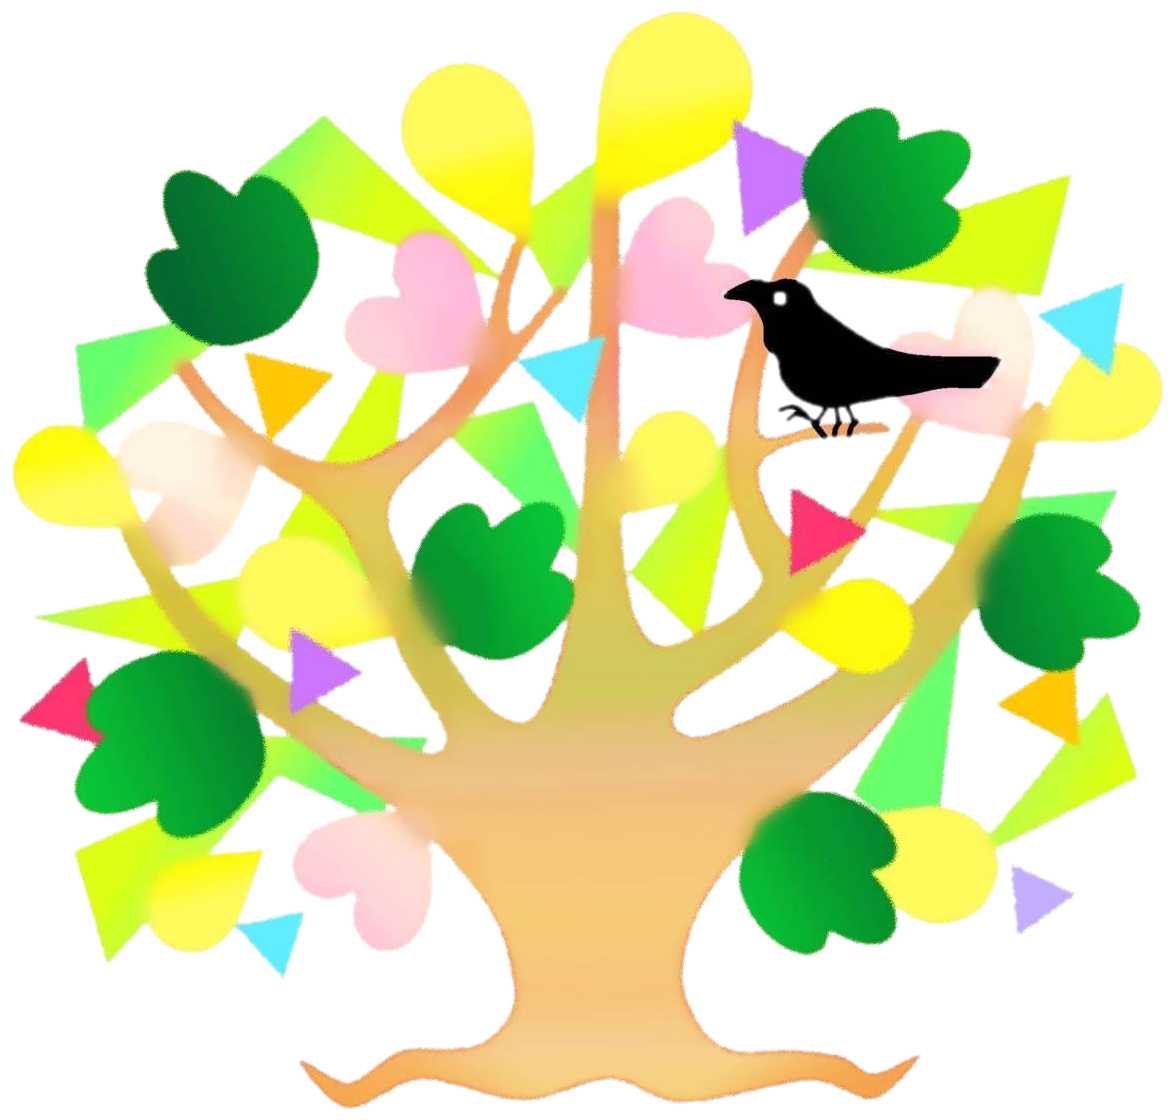
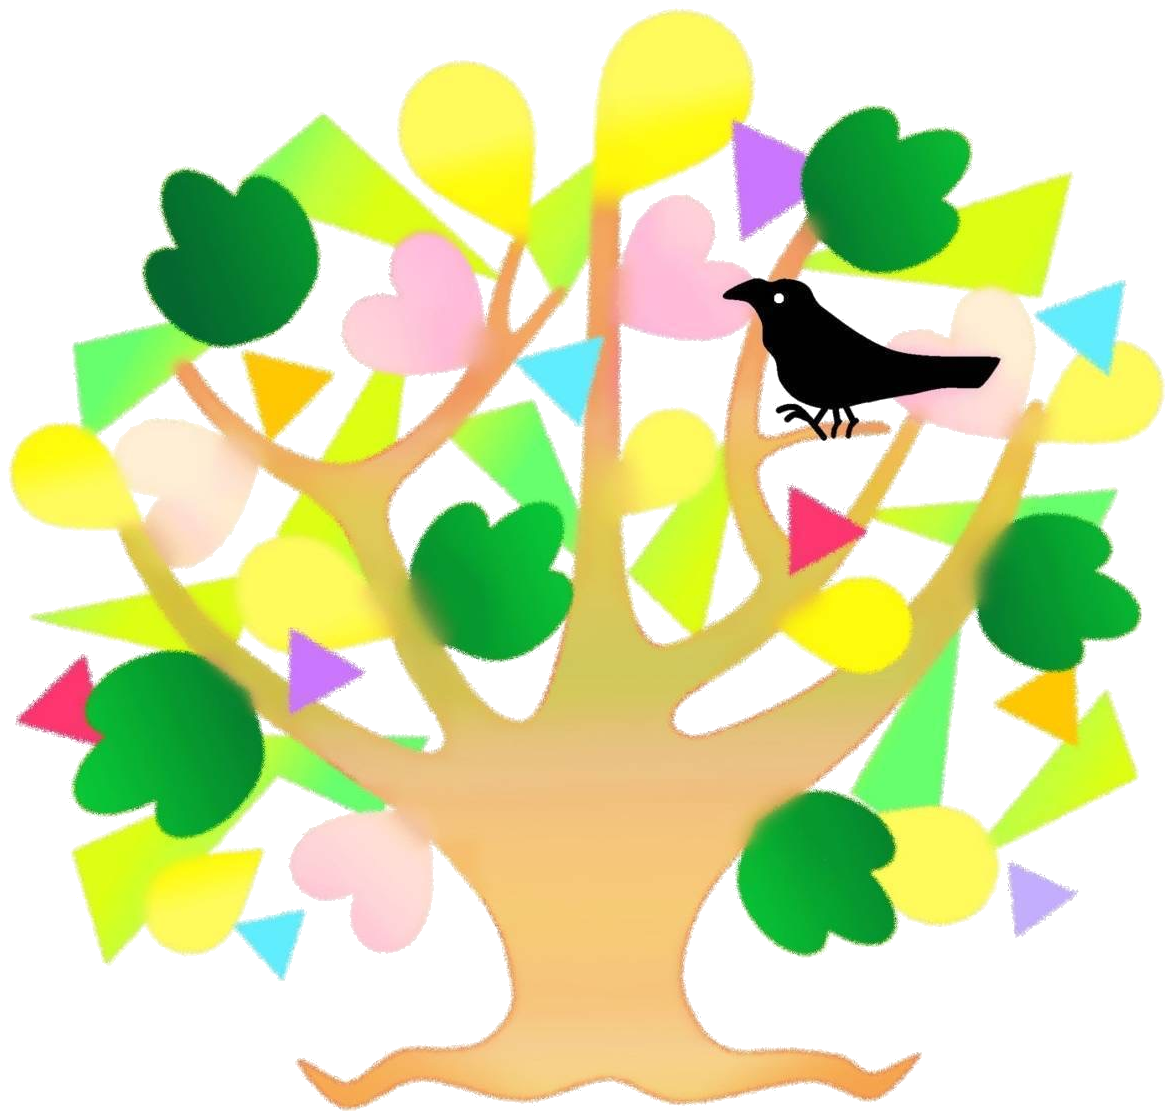
サポーターさん特典追加・最新の状態を保存

diff --git a/indexのコピー.html b/indexのコピー.html
@@ -288,7 +288,7 @@
       flex-direction: column;
       align-items: center;
       justify-content: center;
-      padding: 40px 36px;
+      padding: 40px 32px;
       text-align: center;
     }
 
@@ -302,9 +302,9 @@
     }
 
     .philosophy-card p {
-      font-size: 1.1rem;
+      font-size: 1.53rem;
       color: #333;
-      line-height: 2.2;
+      line-height: 1.8;
       font-weight: 700;
     }
 
@@ -645,7 +645,7 @@
     }
 
     /* ===========================
-       サポーターさん募集
+       サポーター募集
     =========================== */
     .supporter-message {
       max-width: 700px;
@@ -702,36 +702,6 @@
     .supporter-card .s-note {
       font-size: 0.72rem;
       color: #999;
-    }
-
-    .supporter-card .s-benefits {
-      text-align: left;
-      margin-top: 14px;
-      padding-top: 14px;
-      border-top: 1px solid #e8e4d8;
-      font-size: 0.76rem;
-      color: #555;
-      line-height: 1.8;
-    }
-
-    .supporter-card .s-benefits-title {
-      font-size: 0.78rem;
-      font-weight: 700;
-      color: #3a6528;
-      margin-bottom: 4px;
-    }
-
-    .supporter-card .s-benefits li {
-      list-style: none;
-      padding-left: 1em;
-      position: relative;
-    }
-
-    .supporter-card .s-benefits li::before {
-      content: "・";
-      position: absolute;
-      left: 0;
-      color: #4a9d6e;
     }
 
     /* ===========================
@@ -979,7 +949,7 @@
           <li><a href="#activity">活動のようす</a></li>
           <li><a href="#guide">利用案内</a></li>
           <li><a href="#staff">スタッフ紹介</a></li>
-          <li><a href="#supporter">サポーターさん募集</a></li>
+          <li><a href="#supporter">サポーター募集</a></li>
           <li><a href="#faq">よくある質問</a></li>
         </ul>
       </nav>
@@ -1154,13 +1124,13 @@
       <h2 class="sec-title">遊ぶ楽校やたの理念</h2>
       <div class="philosophy-cards">
         <div class="philosophy-card">
-          <p>子ども一人ひとりの<br>ありのままの存在、<br>個性を<br>光輝かせる</p>
+          <p>子ども一人ひとりの<br>ありのままの存在、<br>個性を光輝かせる</p>
         </div>
         <div class="philosophy-card">
-          <p>子ども自身が<br>本来持っている力を<br>最大限に生かせるよう<br>サポートし、環境を創る</p>
+          <p>子ども自身が本来持っている<br>力を最大限に生かせるよう<br>サポートし、環境を創る</p>
         </div>
         <div class="philosophy-card">
-          <p>親御さんと<br>想いや情報を交換し、<br>共に学び、<br>共に歩む</p>
+          <p>親御さんと想いや情報を<br>交換し、<br>共に学び、共に歩む</p>
         </div>
       </div>
     </div>
@@ -1328,7 +1298,7 @@
     </div>
   </section>
 
-  <!-- ========== サポーターさん募集 ========== -->
+  <!-- ========== サポーター募集 ========== -->
   <section id="supporter" class="sec bg-cream">
     <div class="sec-inner">
       <span class="sec-label">SUPPORTER</span>
@@ -1353,39 +1323,19 @@
       </div>
       <div class="supporter-grid">
         <div class="supporter-card">
-          <h3>個人サポーターさん</h3>
-          <p class="s-price">1口 1,000円/月</p>
+          <h3>個人サポーター</h3>
+          <p class="s-price">1,000円/月</p>
           <p class="s-note">年額 12,000円</p>
-          <div class="s-benefits">
-            <p class="s-benefits-title">特典</p>
-            <ul>
-              <li>やた食堂ご招待<br>1口：年1回<br>2口以上：年2回またはお二人様</li>
-              <li>子どもたちの手づくり作品プレゼント（年1回）</li>
-              <li>HPにお名前掲載（希望者）</li>
-            </ul>
-          </div>
         </div>
         <div class="supporter-card">
-          <h3>企業サポーターさん</h3>
-          <p class="s-price">1口 10,000円/月</p>
+          <h3>企業サポーター</h3>
+          <p class="s-price">10,000円/月</p>
           <p class="s-note">年額 120,000円</p>
-          <div class="s-benefits">
-            <p class="s-benefits-title">特典</p>
-            <ul>
-              <li>やた食堂ご招待<br>1口：年1回<br>2口以上：年2回またはお2人様</li>
-              <li>子どもたちの手づくり作品プレゼント（年1回）</li>
-              <li>HPにお名前掲載（希望者）</li>
-              <li>やた食堂開催時、お名前掲載</li>
-            </ul>
-          </div>
         </div>
         <div class="supporter-card">
-          <h3>単発サポーターさん</h3>
+          <h3>単発サポーター</h3>
           <p class="s-price">金額自由</p>
           <p class="s-note">都合のよいタイミングで</p>
-          <div class="s-benefits">
-            <p>ご都合のよいタイミングで金額を問わずご支援いただける形です。お気持ちのままにご参加ください。</p>
-          </div>
         </div>
       </div>
     </div>
@@ -1481,7 +1431,7 @@
       <a href="#about">やたについて</a>
       <a href="#activity">活動のようす</a>
       <a href="#guide">利用案内</a>
-      <a href="#supporter">サポーターさん募集</a>
+      <a href="#supporter">サポーター募集</a>
       <a href="#contact">お問い合わせ</a>
     </div>
     <p>&copy; 一般社団法人 遊ぶ楽校やた</p>

diff --git a/遊ぶ楽校やた_v2.html b/遊ぶ楽校やた_v2.html
@@ -288,7 +288,7 @@
       flex-direction: column;
       align-items: center;
       justify-content: center;
-      padding: 40px 36px;
+      padding: 40px 32px;
       text-align: center;
     }
 
@@ -302,9 +302,9 @@
     }
 
     .philosophy-card p {
-      font-size: 1.1rem;
+      font-size: 1.53rem;
       color: #333;
-      line-height: 2.2;
+      line-height: 1.8;
       font-weight: 700;
     }
 
@@ -645,7 +645,7 @@
     }
 
     /* ===========================
-       サポーターさん募集
+       サポーター募集
     =========================== */
     .supporter-message {
       max-width: 700px;
@@ -702,36 +702,6 @@
     .supporter-card .s-note {
       font-size: 0.72rem;
       color: #999;
-    }
-
-    .supporter-card .s-benefits {
-      text-align: left;
-      margin-top: 14px;
-      padding-top: 14px;
-      border-top: 1px solid #e8e4d8;
-      font-size: 0.76rem;
-      color: #555;
-      line-height: 1.8;
-    }
-
-    .supporter-card .s-benefits-title {
-      font-size: 0.78rem;
-      font-weight: 700;
-      color: #3a6528;
-      margin-bottom: 4px;
-    }
-
-    .supporter-card .s-benefits li {
-      list-style: none;
-      padding-left: 1em;
-      position: relative;
-    }
-
-    .supporter-card .s-benefits li::before {
-      content: "・";
-      position: absolute;
-      left: 0;
-      color: #4a9d6e;
     }
 
     /* ===========================
@@ -979,7 +949,7 @@
           <li><a href="#activity">活動のようす</a></li>
           <li><a href="#guide">利用案内</a></li>
           <li><a href="#staff">スタッフ紹介</a></li>
-          <li><a href="#supporter">サポーターさん募集</a></li>
+          <li><a href="#supporter">サポーター募集</a></li>
           <li><a href="#faq">よくある質問</a></li>
         </ul>
       </nav>
@@ -1154,13 +1124,13 @@
       <h2 class="sec-title">遊ぶ楽校やたの理念</h2>
       <div class="philosophy-cards">
         <div class="philosophy-card">
-          <p>子ども一人ひとりの<br>ありのままの存在、<br>個性を<br>光輝かせる</p>
+          <p>子ども一人ひとりの<br>ありのままの存在、<br>個性を光輝かせる</p>
         </div>
         <div class="philosophy-card">
-          <p>子ども自身が<br>本来持っている力を<br>最大限に生かせるよう<br>サポートし、環境を創る</p>
+          <p>子ども自身が本来持っている<br>力を最大限に生かせるよう<br>サポートし、環境を創る</p>
         </div>
         <div class="philosophy-card">
-          <p>親御さんと<br>想いや情報を交換し、<br>共に学び、<br>共に歩む</p>
+          <p>親御さんと想いや情報を<br>交換し、<br>共に学び、共に歩む</p>
         </div>
       </div>
     </div>
@@ -1328,7 +1298,7 @@
     </div>
   </section>
 
-  <!-- ========== サポーターさん募集 ========== -->
+  <!-- ========== サポーター募集 ========== -->
   <section id="supporter" class="sec bg-cream">
     <div class="sec-inner">
       <span class="sec-label">SUPPORTER</span>
@@ -1353,39 +1323,19 @@
       </div>
       <div class="supporter-grid">
         <div class="supporter-card">
-          <h3>個人サポーターさん</h3>
-          <p class="s-price">1口 1,000円/月</p>
+          <h3>個人サポーター</h3>
+          <p class="s-price">1,000円/月</p>
           <p class="s-note">年額 12,000円</p>
-          <div class="s-benefits">
-            <p class="s-benefits-title">特典</p>
-            <ul>
-              <li>やた食堂ご招待<br>1口：年1回<br>2口以上：年2回またはお二人様</li>
-              <li>子どもたちの手づくり作品プレゼント（年1回）</li>
-              <li>HPにお名前掲載（希望者）</li>
-            </ul>
-          </div>
         </div>
         <div class="supporter-card">
-          <h3>企業サポーターさん</h3>
-          <p class="s-price">1口 10,000円/月</p>
+          <h3>企業サポーター</h3>
+          <p class="s-price">10,000円/月</p>
           <p class="s-note">年額 120,000円</p>
-          <div class="s-benefits">
-            <p class="s-benefits-title">特典</p>
-            <ul>
-              <li>やた食堂ご招待<br>1口：年1回<br>2口以上：年2回またはお2人様</li>
-              <li>子どもたちの手づくり作品プレゼント（年1回）</li>
-              <li>HPにお名前掲載（希望者）</li>
-              <li>やた食堂開催時、お名前掲載</li>
-            </ul>
-          </div>
         </div>
         <div class="supporter-card">
-          <h3>単発サポーターさん</h3>
+          <h3>単発サポーター</h3>
           <p class="s-price">金額自由</p>
           <p class="s-note">都合のよいタイミングで</p>
-          <div class="s-benefits">
-            <p>ご都合のよいタイミングで金額を問わずご支援いただける形です。お気持ちのままにご参加ください。</p>
-          </div>
         </div>
       </div>
     </div>
@@ -1481,7 +1431,7 @@
       <a href="#about">やたについて</a>
       <a href="#activity">活動のようす</a>
       <a href="#guide">利用案内</a>
-      <a href="#supporter">サポーターさん募集</a>
+      <a href="#supporter">サポーター募集</a>
       <a href="#contact">お問い合わせ</a>
     </div>
     <p>&copy; 一般社団法人 遊ぶ楽校やた</p>

diff --git a/src/components/Hero.tsx b/src/components/Hero.tsx
@@ -36,7 +36,7 @@ export default function Hero() {
           </h1>
           <p className="mt-3 text-lg font-bold text-wood-700 sm:text-xl">{heroCopy.subcopy}</p>
           <div className="dotted-divider mx-auto mt-5 w-32 md:mx-0" aria-hidden />
-          <p className="mt-6 leading-loose text-wood-700">{heroCopy.description}</p>
+          <p className="mt-6 whitespace-pre-line leading-loose text-wood-700">{heroCopy.description}</p>
 
           <div className="mt-8 flex flex-col items-center gap-3 sm:flex-row sm:justify-center md:justify-start">
             <PillButton href="#about" icon="🌱">
@@ -48,27 +48,14 @@ export default function Hero() {
           </div>
         </div>
 
-        <div className="flex flex-col items-center gap-5 sm:gap-6">
-          <div className="relative h-[260px] w-full max-w-sm sm:h-[300px] md:h-[340px]">
-            <Image
-              src="/hero-tree.png"
-              alt="遊ぶ楽校やたの木"
-              fill
-              className="object-contain object-bottom animate-sway"
-              priority
-            />
-          </div>
-          <figure className="w-full max-w-md">
-            <Image
-              src="/staff/team-photo.jpg"
-              alt="遊ぶ楽校やたのなかまたち"
-              width={893}
-              height={876}
-              className="h-auto w-full rounded-[2rem] object-cover shadow-[0_22px_50px_-20px_rgba(107,66,38,0.45)] ring-4 ring-white sm:rounded-[2.75rem]"
-              sizes="(max-width: 768px) 100vw, 28rem"
-              priority
-            />
-          </figure>
+        <div className="relative mx-auto h-[260px] w-full max-w-sm sm:h-[300px] md:h-[340px]">
+          <Image
+            src="/hero-tree.png"
+            alt="遊ぶ楽校やたの木"
+            fill
+            className="object-contain object-bottom"
+            priority
+          />
         </div>
       </div>
 

diff --git a/src/data/site.ts b/src/data/site.ts
@@ -1,8 +1,8 @@
 export const heroCopy = {
-  catchphrase: "ありのままの存在を光輝かせる場所。",
-  subcopy: "一歩先の幸せへ。",
+  catchphrase: "遊ぶ楽校やた",
+  subcopy: "自然の中で、遊びながら育つ。",
   description:
-    "遊ぶ楽校やたは、子ども一人ひとりの「ありのまま」を大切にし、その子らしさがそっと輝きだす場所です。自然の中で過ごす時間、夢中になれる遊びや体験、人とのあたたかいつながり。そのひとつひとつを重ねながら、安心して自分でいられる毎日を育みます。「自分らしく」過ごせた今日の積み重ねが、自分らしく生きていく力になる——遊ぶ楽校やたは、そんな子どもたちの未来を育む居場所でありたいと願っています。",
+    "子どもには、一人ひとり違う「育ち方」があります。\n遊ぶ楽校やたは、遊びや体験、人とのつながりを通して、自分らしく過ごせる居場所です。\n「できた！」の積み重ねが、自信につながる。\n子どもたち一人ひとりの歩幅を大切にしながら、一緒に成長していきます。",
 };
 
 export const siteInfo = {
